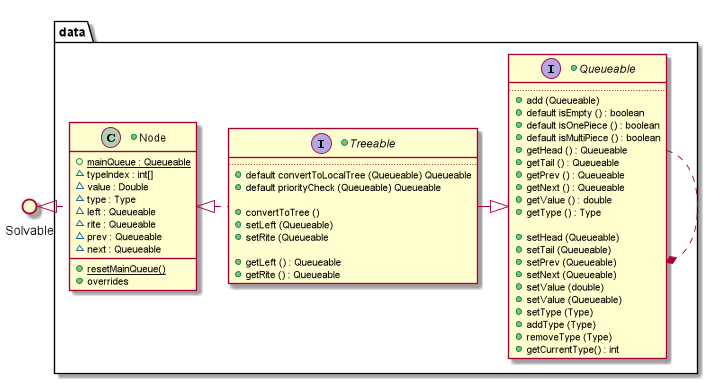
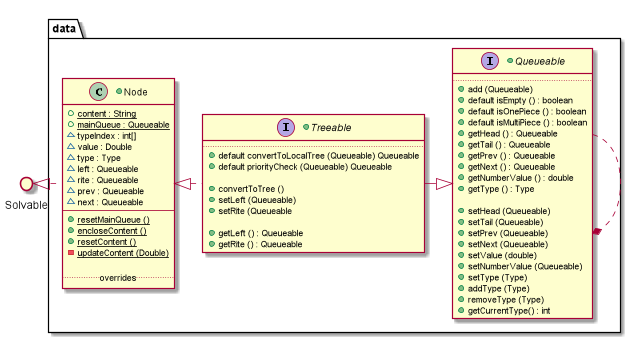
basic calculator functionality ready

Changed region(s): [[0.0, 0.0294, 0.9858, 1.0]]

diff --git a/src/main/java/data/Node.java b/src/main/java/data/Node.java
@@ -1,9 +1,8 @@
 package data;
 
-import logic.Solvable;
-import logic.Type;
+import logic.*;
 
-public class Node implements Solvable, Treeable/*, ObservableStringValue*/ {
+public class Node implements Solvable, Treeable {
 
 //	@formatter:off
 
@@ -14,7 +13,6 @@ public class Node implements Solvable, Treeable/*, ObservableStringValue*/ {
 			mainQueue = new Node();
 	int[]
 			typeIndex = new int[Type.values().length >> 1];
-
 	Double
 			numberValue = Double.NaN;
 	Type
@@ -43,7 +41,10 @@ public class Node implements Solvable, Treeable/*, ObservableStringValue*/ {
 		mainQueue.setNumberValue(Double.NaN);
 		mainQueue.setType(null);
 	}
-
+	static public void encloseContent(){
+		content = '('+content+')';
+	}
+	static public void resetContent(){ content = "";}
 	static private void updateContent(Double numberValue){
 		String s
 				= numberValue % 1. == 0.
@@ -52,20 +53,12 @@ public class Node implements Solvable, Treeable/*, ObservableStringValue*/ {
 		content += s;
 	}
 
-	static public void encloseContent(){
-		content = '('+content+')';
-	}
-
-	static public void resetContent(){ content = "";}
-
 //	Queueable \\//\\//\\//\\//\\//\\//\\//\\//\\//\\//\\//\\//\\//\\//\\//\\//\\//\\//\\//\\//\\//\\//\\//\\//\\//\\//\\
 
 	@Override public void setHead(Queueable q) { setLeft(q); }
 	@Override public void setTail(Queueable q) { setRite(q); }
 	@Override public void setPrev(Queueable q) { prev = q; }
 	@Override public void setNext(Queueable q) { next = q; }
-
-
 
 	@Override public double getNumberValue() { return numberValue; }
 	@Override public Type getType() { return type; }
@@ -95,7 +88,6 @@ public class Node implements Solvable, Treeable/*, ObservableStringValue*/ {
 		addType(q.getType());
 	}
 
-
 	@Override public void addType(Type t) { typeIndex[t.ordinal()>>1]++; }
 	@Override public void removeType(Type t) {
 		if(typeIndex[t.ordinal()>>1]>0)
@@ -113,7 +105,7 @@ public class Node implements Solvable, Treeable/*, ObservableStringValue*/ {
 
 //	Solvable  \\//\\//\\//\\//\\//\\//\\//\\//\\//\\//\\//\\//\\//\\//\\//\\//\\//\\//\\//\\//\\//\\//\\//\\//\\//\\//\\
 
-	@Override public double solve(double leftValue, double riteValue) { return type.solve(leftValue, riteValue); }
+	@Override public double solve(double op1, double op2) { return type.solve(op1, op2); }
 
 //	Treeable  \\//\\//\\//\\//\\//\\//\\//\\//\\//\\//\\//\\//\\//\\//\\//\\//\\//\\//\\//\\//\\//\\//\\//\\//\\//\\//\\
 
@@ -140,37 +132,4 @@ public class Node implements Solvable, Treeable/*, ObservableStringValue*/ {
 
 	//	@formatter:on
 
-	{ /*temporal*/ }    // ? neat trick
-
-//	? ObservableStringValue //\\//\\//\\//\\//\\//\\//\\//\\//\\//\\//\\//\\//\\//\\//\\//\\//\\//\\//\\//\\//\\//\\//\\
-
-/*
-	@Override
-	public String get() {
-		return content;
-	}
-
-	@Override
-	public void addListener(InvalidationListener listener) {
-
-	}
-
-	@Override
-	public void removeListener(InvalidationListener listener) {
-	}
-
-	@Override
-	public void addListener(ChangeListener<? super String> listener) {
-
-	}
-
-	@Override
-	public void removeListener(ChangeListener<? super String> listener) {
-	}
-
-	@Override
-	public String getValue() {
-		return null;
-	}
-*/		// ? disposable ?
 }

diff --git a/src/main/java/logic/Type.java b/src/main/java/logic/Type.java
@@ -6,28 +6,28 @@ public enum Type implements /*logic.*/Solvable {
 
 //	0 : brackets  \\//\\//\\//\\//\\//\\//\\//\\//\\//\\//\\//\\//\\//\\//\\//\\//\\//\\//\\//\\//\\//\\//\\//\\//\\//\\
 
-	BRACKET_IN	{ @Override public double solve (double operand1, double operand2) { return Double.NaN; } },
-	BRACKET_OUT	{ @Override public double solve (double operand1, double operand2) { return Double.NaN; } },
+	BRACKET_IN,
+	BRACKET_OUT,
 
 //	1 : exponential //\\//\\//\\//\\//\\//\\//\\//\\//\\//\\//\\//\\//\\//\\//\\//\\//\\//\\//\\//\\//\\//\\//\\//\\//\\
 
-	EXPONENT	{ @Override public double solve (double operand1, double operand2) { return Math.pow(operand1, operand2); } },
-	ROOT		{ @Override public double solve (double operand1, double operand2) { return Math.pow(operand1, 1. / operand2); } },
+	EXPONENT	{ @Override public double solve (double op1, double op2) { return Math.pow(op1, op2); } },
+	ROOT		{ @Override public double solve (double op1, double op2) { return Math.pow(op1, 1. / op2); } },
 
 //	2: multiplication  //\\//\\//\\//\\//\\//\\//\\//\\//\\//\\//\\//\\//\\//\\//\\//\\//\\//\\//\\//\\//\\//\\//\\//\\//\\
 
-	MULTIPLY 	{ @Override public double solve (double operand1, double operand2) { return operand1 * operand2; } },
-	DIVIDE 		{ @Override public double solve (double operand1, double operand2) { return operand1 / operand2; } },
+	MULTIPLY 	{ @Override public double solve (double op1, double op2) { return op1 * op2; } },
+	DIVIDE 		{ @Override public double solve (double op1, double op2) { return op1 / op2; } },
 
 //	3 : addition  \\//\\//\\//\\//\\//\\//\\//\\//\\//\\//\\//\\//\\//\\//\\//\\//\\//\\//\\//\\//\\//\\//\\//\\//\\//\\//\\
 
-	ADD 		{ @Override public double solve (double operand1, double operand2) { return operand1 + operand2; } },
-	SUBTRACT 	{ @Override public double solve (double operand1, double operand2) { return operand1 - operand2; } },
+	ADD 		{ @Override public double solve (double op1, double op2) { return op1 + op2; } },
+	SUBTRACT 	{ @Override public double solve (double op1, double op2) { return op1 - op2; } },
 
 //	4 : evaluation  //\\//\\//\\//\\//\\//\\//\\//\\//\\//\\//\\//\\//\\//\\//\\//\\//\\//\\//\\//\\//\\//\\//\\//\\//\\//\\
 
-	VALUE 		{ @Override public double solve (double operand1, double operand2) { return Double.NaN; } },
-	EVALUATE 	{ @Override public double solve (double operand1, double operand2) { return Double.NaN; } }
+	VALUE,
+	EVALUATE
 
 //	@formatter:on
 

diff --git a/src/main/java/interaction/Interaction.java b/src/main/java/interaction/Interaction.java
@@ -4,38 +4,58 @@ import data.Node;
 import gui.MainPanel;
 import logic.Parsable;
 
-
 public enum Interaction implements Interactive {
 
-	BRACKET_IN ,
+	BRACKET_IN,
 	BRACKET_OUT,
-
-	ADD_TO_PARSER {@Override public void interactWithData(Whatevah whatevah) { Parsable.addToParserCache(whatevah.getSymbol()); }},
-
-	SWITCH_SIGN {
-		@Override public void interactWithData(Whatevah whatevah) { Parsable.toggleSign(); }
-		@Override public void interactWithOutput(){ MainPanel.displayUpdate(); }
+	ADD_TO_PARSER {
+		@Override
+		public void interactWithData(ButtonDetails buttonDetails) { Parsable.addToParserCache(buttonDetails.getSymbol()); }
 	},
-
+	SWITCH_SIGN {
+		@Override
+		public void interactWithData(ButtonDetails buttonDetails) { Parsable.toggleSign(); }
+	},
 	ADD_TO_QUEUE {
 		@Override
-		public void interactWithData(Whatevah whatevah) {
+		public void interactWithData(ButtonDetails buttonDetails) {
 			Node.mainQueue.add(new Node(Parsable.dumpParserCache()));
-			Node.mainQueue.add(new Node(whatevah.getType(), whatevah.getSymbol()));
+			Node.mainQueue.add(new Node(buttonDetails.getType(), buttonDetails.getSymbol()));
 		}
 	},
-
 	SOLVE {
 		@Override
-		public void interactWithData(Whatevah whatevah) {
+		public void interactWithData(ButtonDetails buttonDetails) {
 			Node.mainQueue.add(new Node(Parsable.dumpParserCache()));
 			if (!Node.mainQueue.isEmpty())
 				((Node) Node.mainQueue).convertToTree();
 		}
-	},
 
+		@Override
+		public void interactWithOutput() {
+			double
+					result = Node.mainQueue.getHead().getNumberValue();
+			String
+					resultString = Double.toString(result);
+
+			MainPanel.bottomDisplayUpdate(resultString);
+			Node.encloseContent();
+		}
+	},
 	UNDO,
-	CLEAR,
+	CLEAR {
+		@Override
+		public void interactWithOutput(){
+			Node.resetContent();
+			Node.resetMainQueue();
+			Parsable.resetParsableCache();
+			if (Double.valueOf(MainPanel.bottomDisplay.getText()) != 0.) {
+				MainPanel.bottomDisplay.setText("0.");
+				MainPanel.topDisplay.setText("0.");
+			}
+		}
+
+	},
 	RESET,
 	EMPTY
 }

diff --git a/src/main/java/gui/Button.java b/src/main/java/gui/Button.java
@@ -1,7 +1,7 @@
 package gui;
 
 import interaction.Interactive;
-import interaction.Interactive.Whatevah;
+import interaction.Interactive.ButtonDetails;
 import logic.Type;
 
 import javax.swing.*;
@@ -11,15 +11,14 @@ import static gui.Settings.buttonRowLength;
 
 public class Button extends JButton implements KeyListener {
 
-	Whatevah whatevah;
+	ButtonDetails buttonDetails;
 	ActionEvent event;
 
 	public Button(Interactive action, Type type, char symbol) {
 		setNameAndText(symbol);
 		setWhatevah(type,symbol);
 		addActionListener(e -> {
-			action.interactWithData(whatevah);
-//			MainPanel.displayUpdate();
+			action.interactWithData(buttonDetails);
 			Interactive.interactWithOutput(action);
 		});
 	}
@@ -38,7 +37,7 @@ public class Button extends JButton implements KeyListener {
 	//	@formatter:off
 
 	void setWhatevah(Type type, char symbol){
-		whatevah = new Whatevah(type, symbol);
+		buttonDetails = new ButtonDetails(type, symbol);
 	}
 
 	void setNameAndText(char symbol) {

diff --git a/src/main/java/logic/Parsable.java b/src/main/java/logic/Parsable.java
@@ -6,7 +6,7 @@ public interface Parsable {
 
 //	@formatter:off
 
-	static final ParsableCache
+	ParsableCache
 			parsableCache = new ParsableCache();
 
 	static void addToParserCache (char c) {
@@ -43,9 +43,9 @@ public interface Parsable {
 
 	class ParsableCache implements Parsable {
 
-		public boolean
+		/*public*/ boolean
 				isValuePositive = true;
-		public String
+		/*public*/ String
 				parserCache = "";
 
 		static public String getParserCache () { return Parsable.parsableCache.parserCache; }
@@ -60,7 +60,6 @@ public interface Parsable {
 				return false;
 			}
 		}
-
 		static String getParserCacheString () {
 			return Parsable.parsableCache.isValuePositive
 					? Parsable.parsableCache.parserCache

diff --git a/src/main/java/interaction/Interactive.java b/src/main/java/interaction/Interactive.java
@@ -6,15 +6,15 @@ import logic.Type;
 public interface Interactive {
 
 	static void interactWithOutput(Interactive action) {
-		MainPanel.displayUpdate();
+		MainPanel.topDisplayUpdate();
 		action.interactWithOutput();
+
 	}
 
 	default void interactWithOutput(){}
-	default void interactWithData(Whatevah whatevah){}
+	default void interactWithData(ButtonDetails buttonDetails){}
 
-
-	class Whatevah {
+	class ButtonDetails {
 
 //		@formatter:off
 
@@ -23,7 +23,7 @@ public interface Interactive {
 		public char
 				symbol;
 
-		public Whatevah(Type type, char symbol) {
+		public ButtonDetails(Type type, char symbol) {
 			this.type = type;
 			this.symbol = symbol;
 		}

diff --git a/src/main/java/data/Queueable.java b/src/main/java/data/Queueable.java
@@ -16,28 +16,6 @@ public interface Queueable {
 		setTail(q);
 		addType(q.getType());
 	}
-	/*default void remove(Queueable q){
-		if (getHead() == q ){
-			setHead(q.getNext());
-			getHead().setPrev(null);
-			q.setNext(null);
-
-		}
-		else if (getTail() == q){
-			setTail(q.getPrev());
-			getTail().setNext(null);
-			q.setPrev(null);
-		}
-		else {
-			q.getPrev().setNext(q.getNext());
-			q.getNext().setPrev(q.getPrev());
-			q.setPrev(null);
-			q.setNext(null);
-		}
-		removeType(q.getType());
-
-	}*/	// ? disposable ?
-
 	default boolean isEmpty(){
 		return getHead() == getTail() && getHead() == null;
 	}

diff --git a/src/main/java/gui/MainPanel.java b/src/main/java/gui/MainPanel.java
@@ -37,7 +37,8 @@ public class MainPanel extends JPanel /*implements Displayable */{
 		}
 	}
 
-	public static void displayUpdate(){ topDisplay.setText(Node.content+Parsable.ParsableCache.getParserCache()); }
+	public static void topDisplayUpdate(){ topDisplay.setText(Node.content+Parsable.ParsableCache.getParserCache()); }
+	public static void bottomDisplayUpdate(String string){bottomDisplay.setText(string);}
 
 	@Override
 	public Dimension getPreferredSize() {

diff --git a/src/main/java/logic/Solvable.java b/src/main/java/logic/Solvable.java
@@ -2,5 +2,5 @@ package logic;
 
 public interface Solvable {
 
-	double solve (double operand1, double operand2);
+	default double solve (double op1, double op2){return Double.NaN;}
 }
